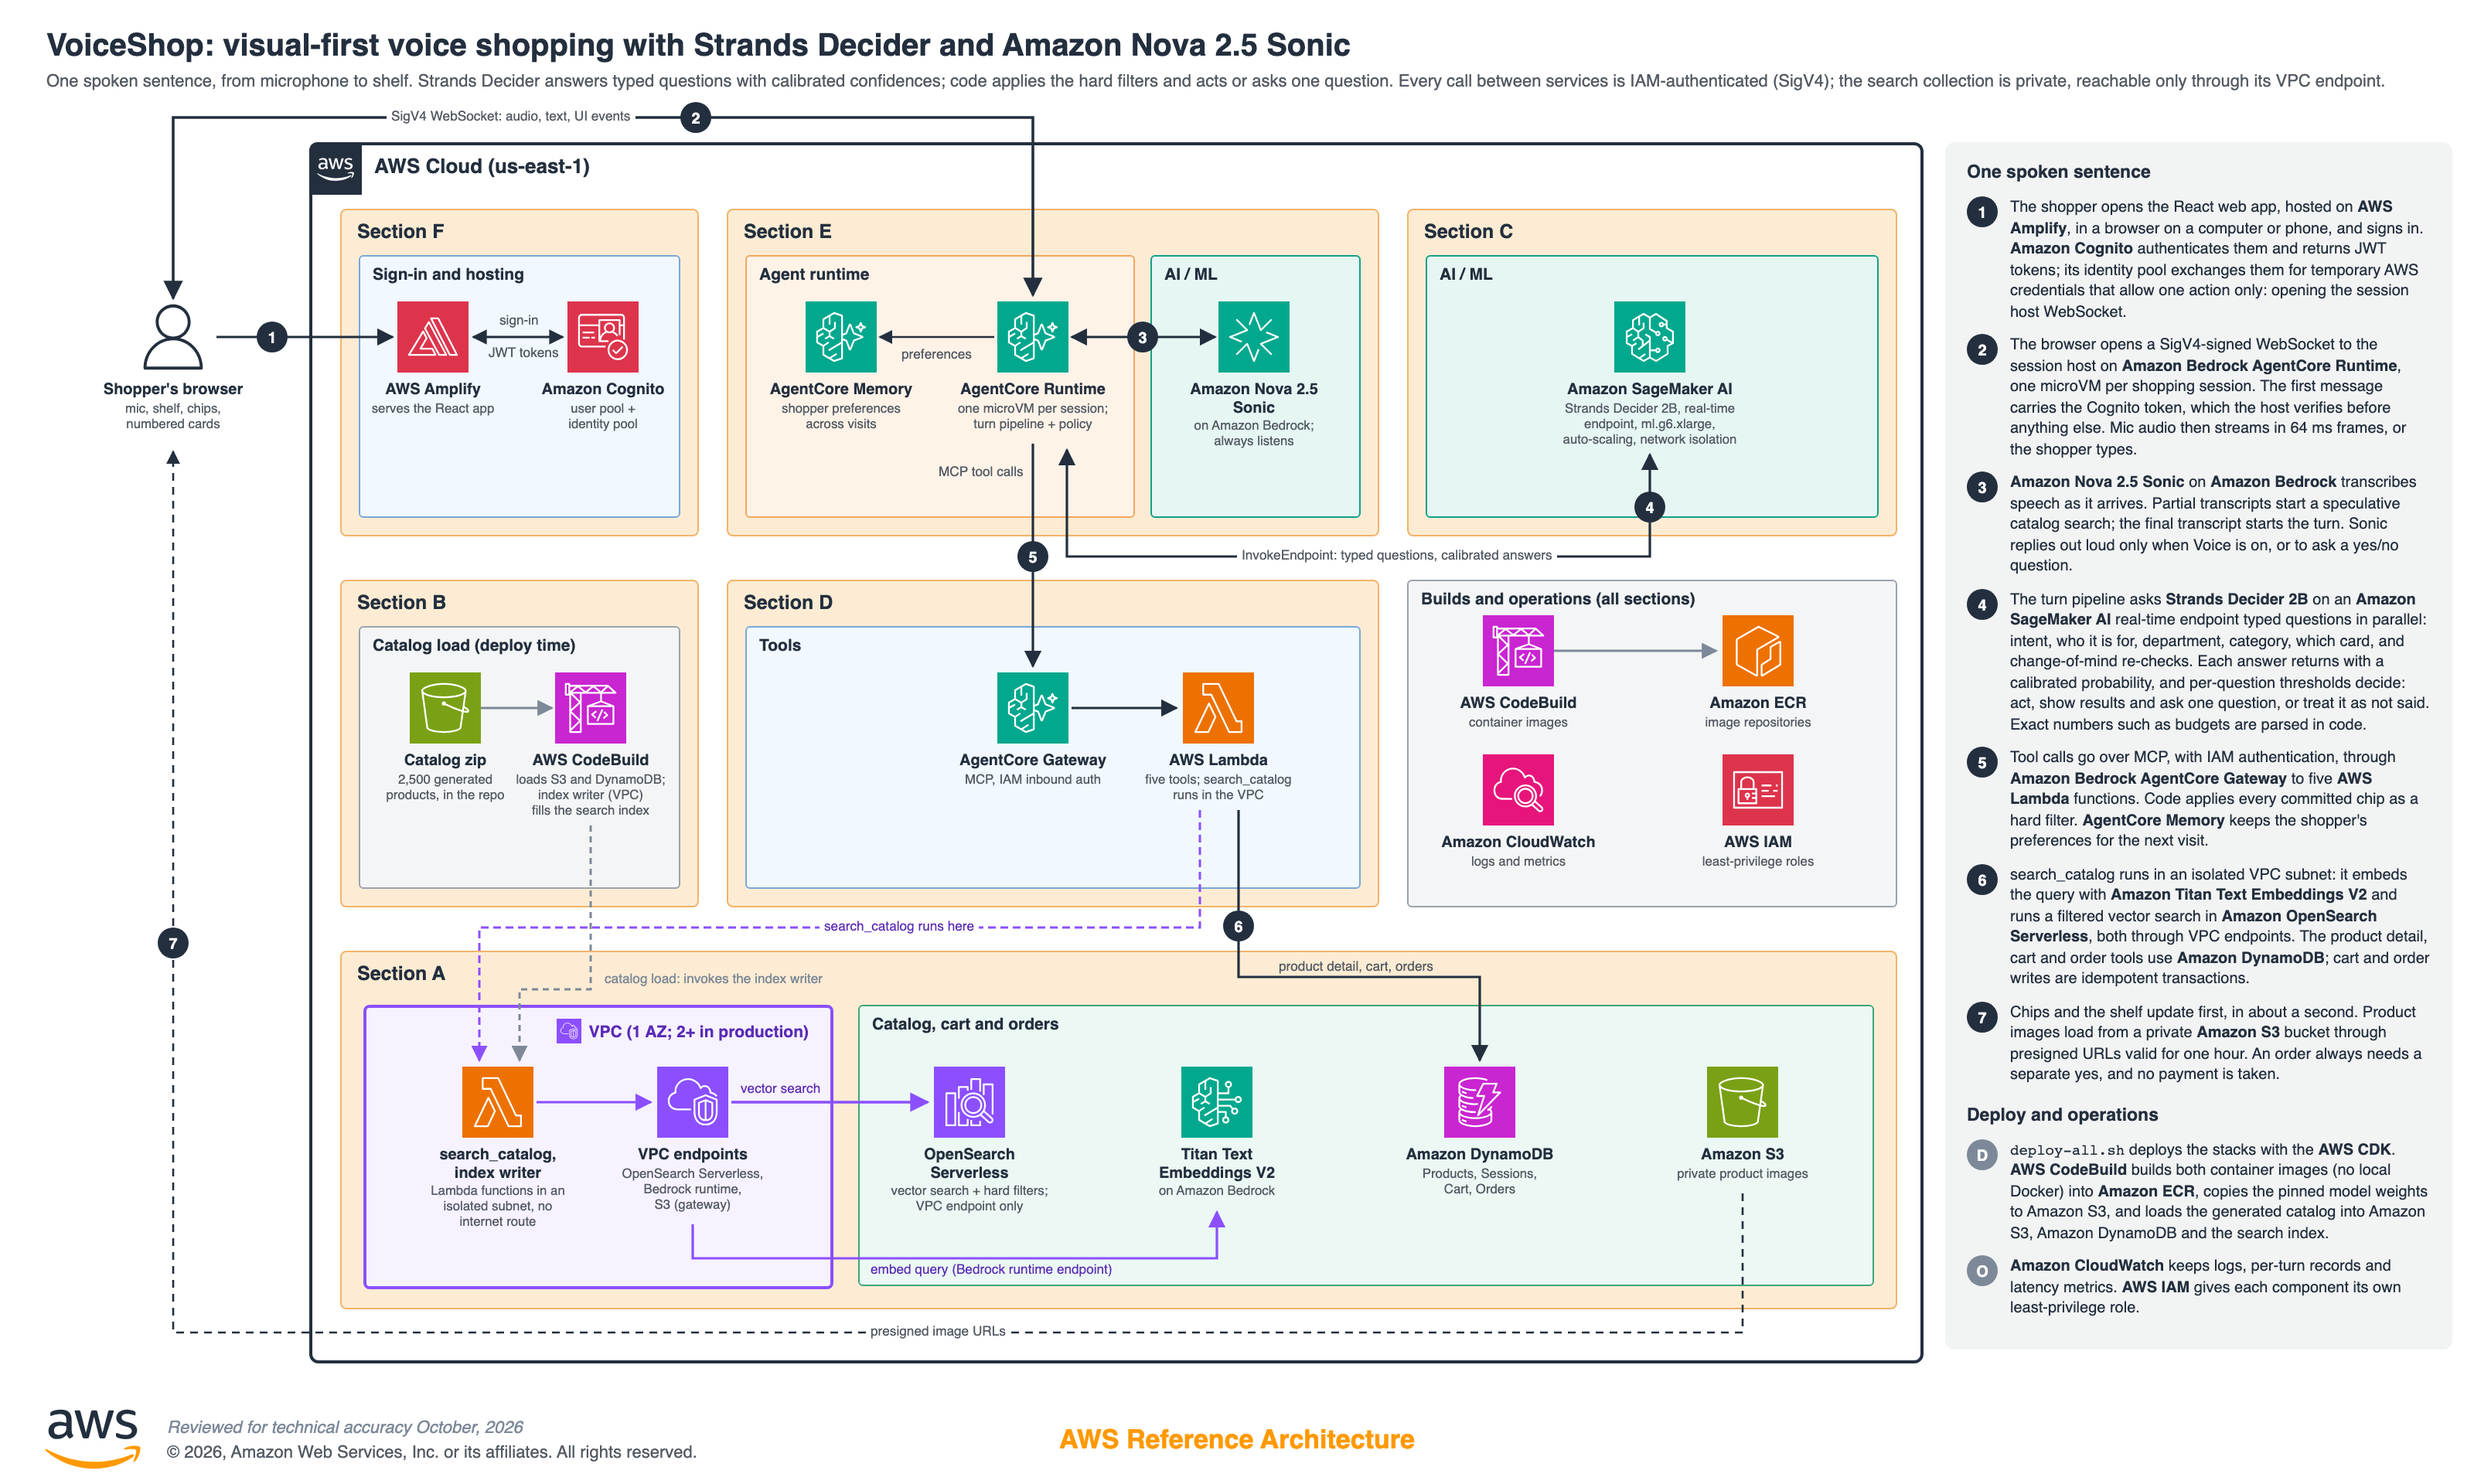
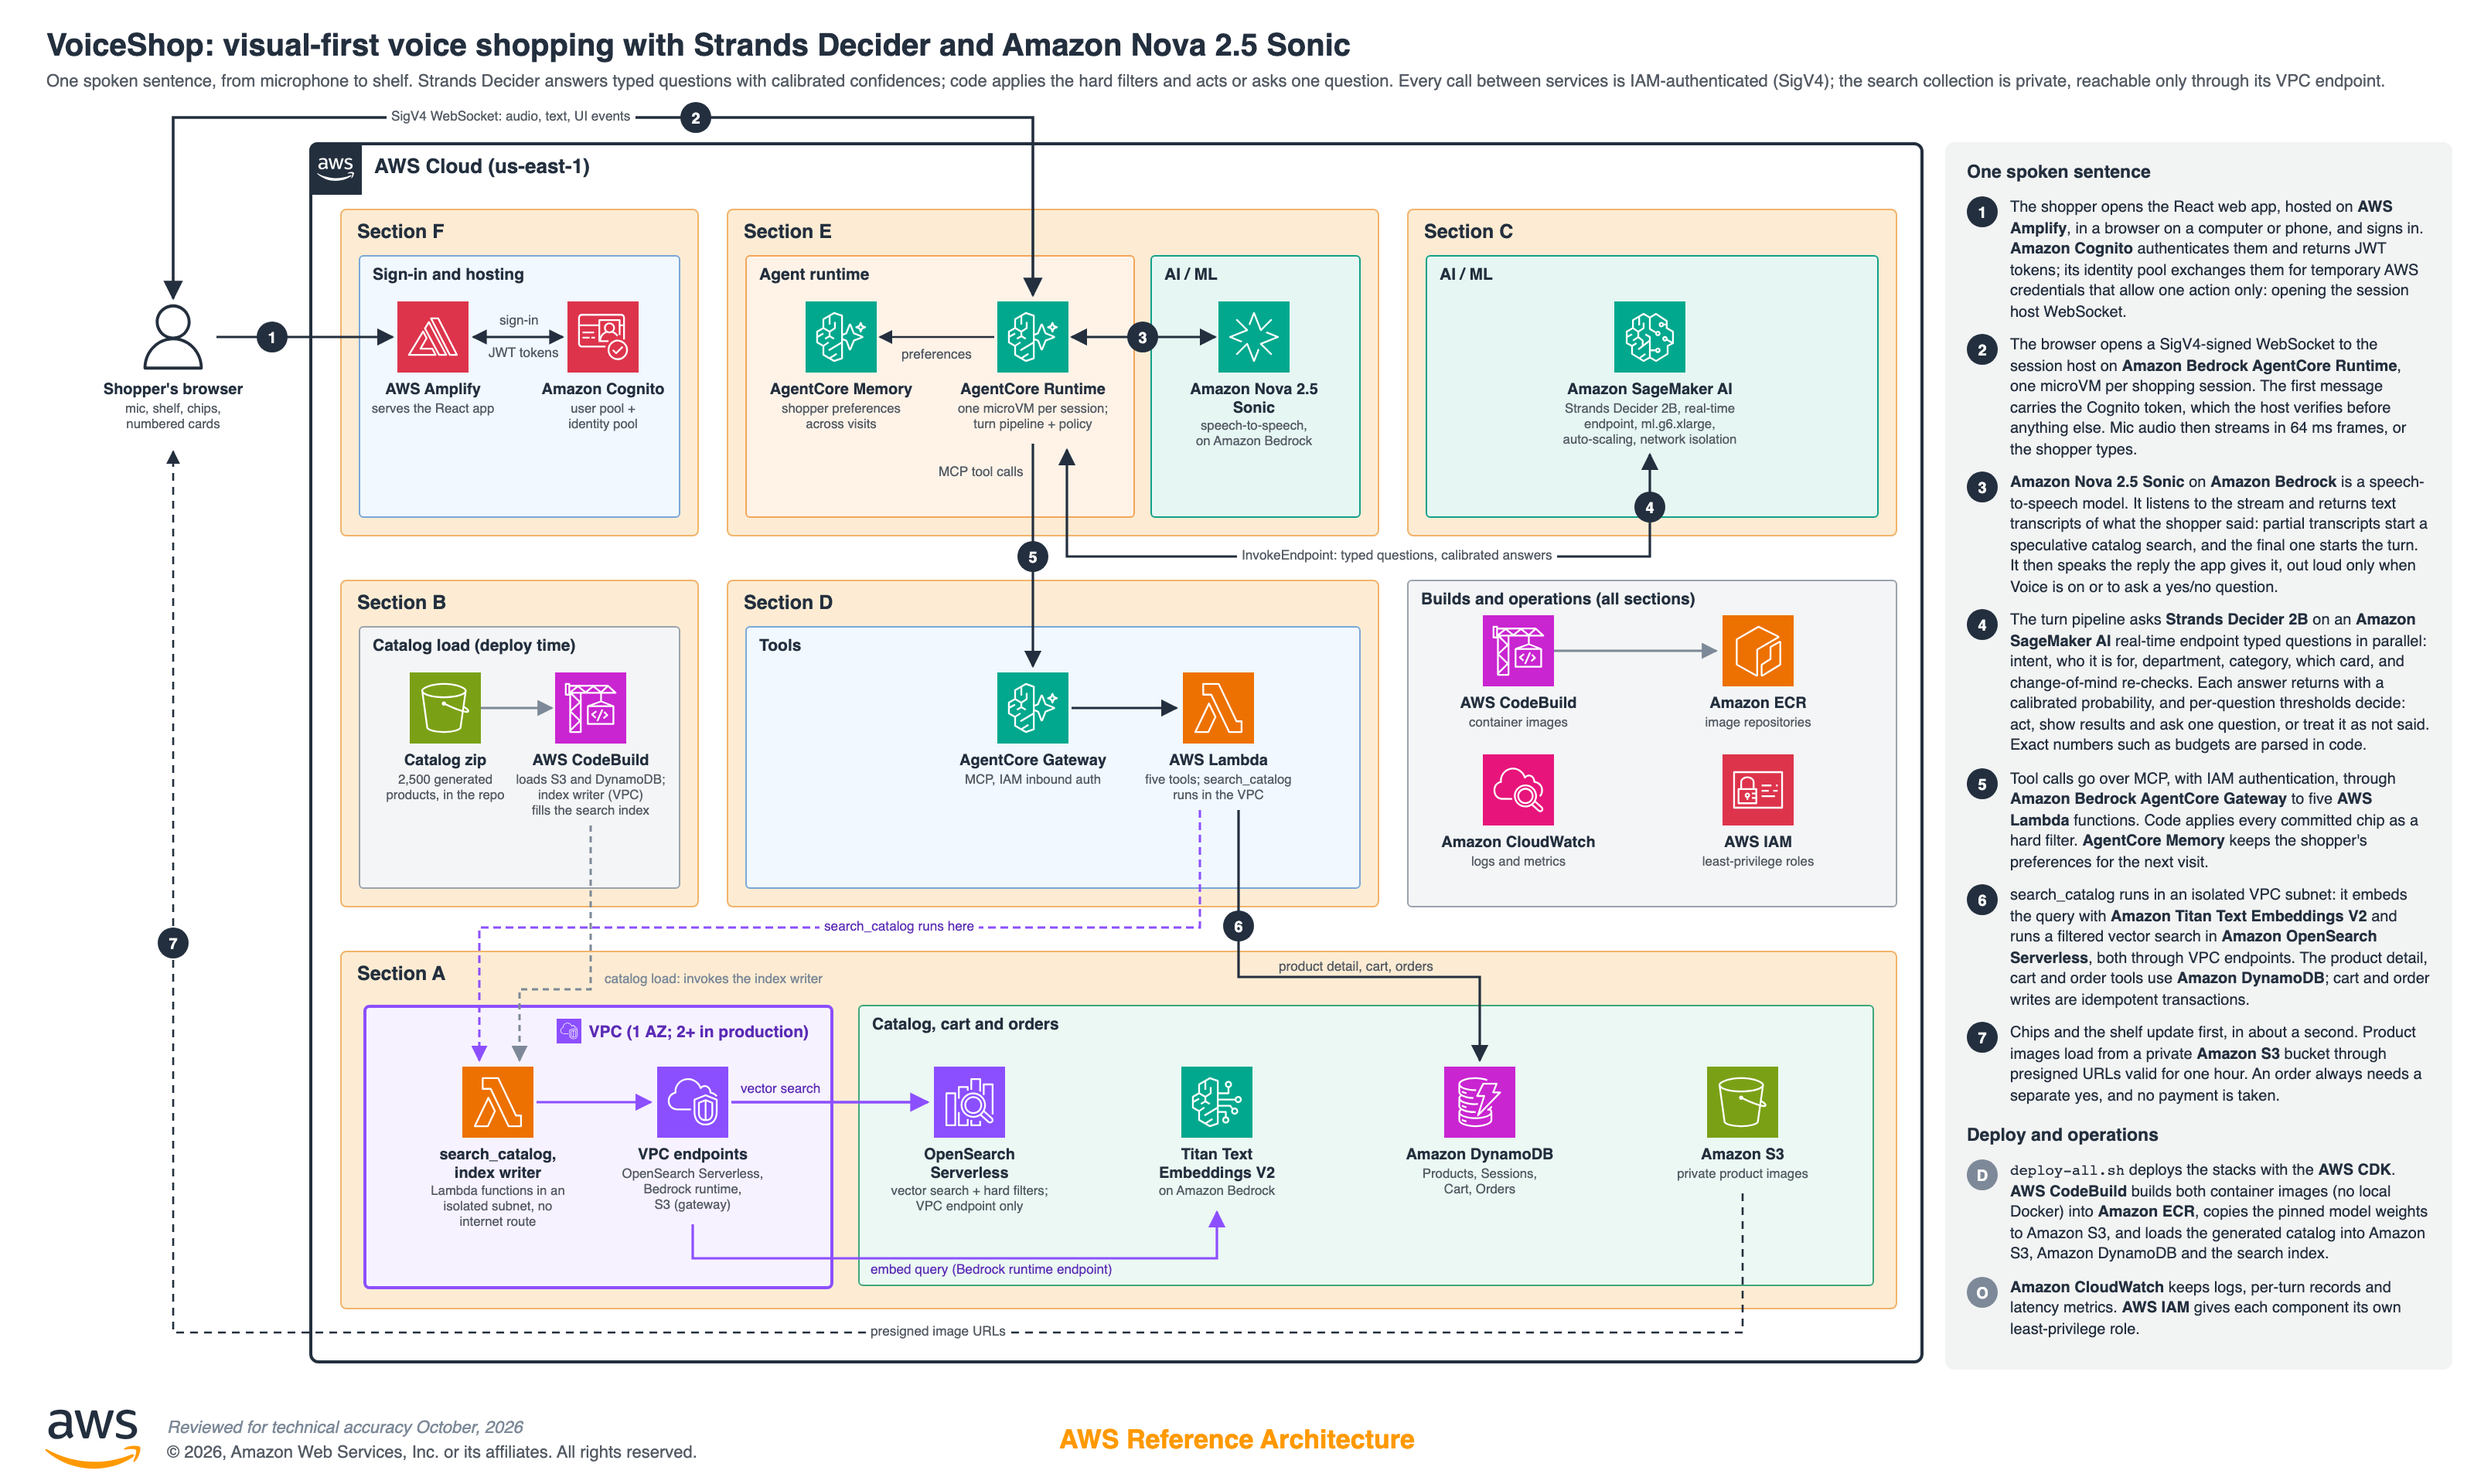
Nova 2.5 Sonic described as speech-to-speech that returns transcripts (diagram, README)

Changed region(s): [[0.7812, 0.3125, 1.0, 0.9062], [0.4688, 0.2812, 0.5312, 0.3125]]

diff --git a/assets/architecture-diagram-source.html b/assets/architecture-diagram-source.html
@@ -75,7 +75,7 @@
   <div class="svc" style="left:492px;top:195px;"><img src="icons/agentcore.svg"/><div class="n">AgentCore Memory</div><div class="d">shopper preferences<br/>across visits</div></div>
   <div class="svc" style="left:616px;top:195px;"><img src="icons/agentcore.svg"/><div class="n">AgentCore Runtime</div><div class="d">one microVM per session;<br/>turn pipeline + policy</div></div>
   <div class="sub" style="left:744px;top:165px;width:134px;height:168px;background:#E6F6F3;border-color:#12A08A;"><div class="sub-label">AI / ML</div></div>
-  <div class="svc" style="left:759px;top:195px;"><img src="icons/nova.svg"/><div class="n">Amazon Nova 2.5 Sonic</div><div class="d">on Amazon Bedrock;<br/>always listens</div></div>
+  <div class="svc" style="left:759px;top:195px;"><img src="icons/nova.svg"/><div class="n">Amazon Nova 2.5 Sonic</div><div class="d">speech-to-speech,<br/>on Amazon Bedrock</div></div>
 
   <div class="section" style="left:910px;top:135px;width:315px;height:210px;"><div class="section-label">Section C</div></div>
   <div class="sub" style="left:922px;top:165px;width:291px;height:168px;background:#E6F6F3;border-color:#12A08A;"><div class="sub-label">AI / ML</div></div>
@@ -162,7 +162,7 @@
     <h3>One spoken sentence</h3>
     <div class="row"><div class="b">1</div><div class="x">The shopper opens the React web app, hosted on <b>AWS Amplify</b>, in a browser on a computer or phone, and signs in. <b>Amazon Cognito</b> authenticates them and returns JWT tokens; its identity pool exchanges them for temporary AWS credentials that allow one action only: opening the session host WebSocket.</div></div>
     <div class="row"><div class="b">2</div><div class="x">The browser opens a SigV4-signed WebSocket to the session host on <b>Amazon Bedrock AgentCore Runtime</b>, one microVM per shopping session. The first message carries the Cognito token, which the host verifies before anything else. Mic audio then streams in 64 ms frames, or the shopper types.</div></div>
-    <div class="row"><div class="b">3</div><div class="x"><b>Amazon Nova 2.5 Sonic</b> on <b>Amazon Bedrock</b> transcribes speech as it arrives. Partial transcripts start a speculative catalog search; the final transcript starts the turn. Sonic replies out loud only when Voice is on, or to ask a yes/no question.</div></div>
+    <div class="row"><div class="b">3</div><div class="x"><b>Amazon Nova 2.5 Sonic</b> on <b>Amazon Bedrock</b> is a speech-to-speech model. It listens to the stream and returns text transcripts of what the shopper said: partial transcripts start a speculative catalog search, and the final one starts the turn. It then speaks the reply the app gives it, out loud only when Voice is on or to ask a yes/no question.</div></div>
     <div class="row"><div class="b">4</div><div class="x">The turn pipeline asks <b>Strands Decider 2B</b> on an <b>Amazon SageMaker AI</b> real-time endpoint typed questions in parallel: intent, who it is for, department, category, which card, and change-of-mind re-checks. Each answer returns with a calibrated probability, and per-question thresholds decide: act, show results and ask one question, or treat it as not said. Exact numbers such as budgets are parsed in code.</div></div>
     <div class="row"><div class="b">5</div><div class="x">Tool calls go over MCP, with IAM authentication, through <b>Amazon Bedrock AgentCore Gateway</b> to five <b>AWS Lambda</b> functions. Code applies every committed chip as a hard filter. <b>AgentCore Memory</b> keeps the shopper&#39;s preferences for the next visit.</div></div>
     <div class="row"><div class="b">6</div><div class="x">search_catalog runs in an isolated VPC subnet: it embeds the query with <b>Amazon Titan Text Embeddings V2</b> and runs a filtered vector search in <b>Amazon OpenSearch Serverless</b>, both through VPC endpoints. The product detail, cart and order tools use <b>Amazon DynamoDB</b>; cart and order writes are idempotent transactions.</div></div>

diff --git a/README.md b/README.md
@@ -63,7 +63,7 @@ The session host (Python, FastAPI) runs the turn pipeline and the decision polic
 
 1. The shopper opens the web app on **AWS Amplify Hosting** and signs in. **Amazon Cognito** authenticates the shopper, and the identity pool returns temporary AWS credentials that can only open the session host WebSocket.
 2. The browser opens a SigV4-signed WebSocket to **Amazon Bedrock AgentCore Runtime**. It streams microphone audio, or sends typed text. AgentCore Runtime starts one microVM for the session.
-3. **Amazon Nova 2.5 Sonic** transcribes the speech. It speaks only when the shopper has turned spoken replies on, or to ask a yes/no question. A partial transcript starts a speculative catalog search, and the final transcript starts the turn.
+3. **Amazon Nova 2.5 Sonic**, a speech-to-speech model, returns text transcripts of what the shopper said and speaks the reply. It speaks only when the shopper has turned spoken replies on, or to ask a yes/no question. A partial transcript starts a speculative catalog search, and the final transcript starts the turn.
 4. The session host sends typed questions to **Strands Decider 2B** on the **Amazon SageMaker AI** endpoint: the intent, who the item is for, the department, then the category within it, the budget, and which card the shopper means. Each answer comes with a calibrated confidence. Depending on that confidence, the code acts, shows results while asking one short question, or offers a yes/no choice.
 5. The session host calls tools through **Amazon Bedrock AgentCore Gateway** (MCP, IAM), which invokes **AWS Lambda** functions. Code enforces every committed filter. **Amazon Bedrock AgentCore Memory** keeps preferences for the next visit.
 6. `search_catalog` runs in the VPC. It embeds the query with **Amazon Titan Text Embeddings V2** and runs a filtered vector search in **Amazon OpenSearch Serverless** through the collection's VPC endpoint. Carts and orders are **Amazon DynamoDB** transactions.
